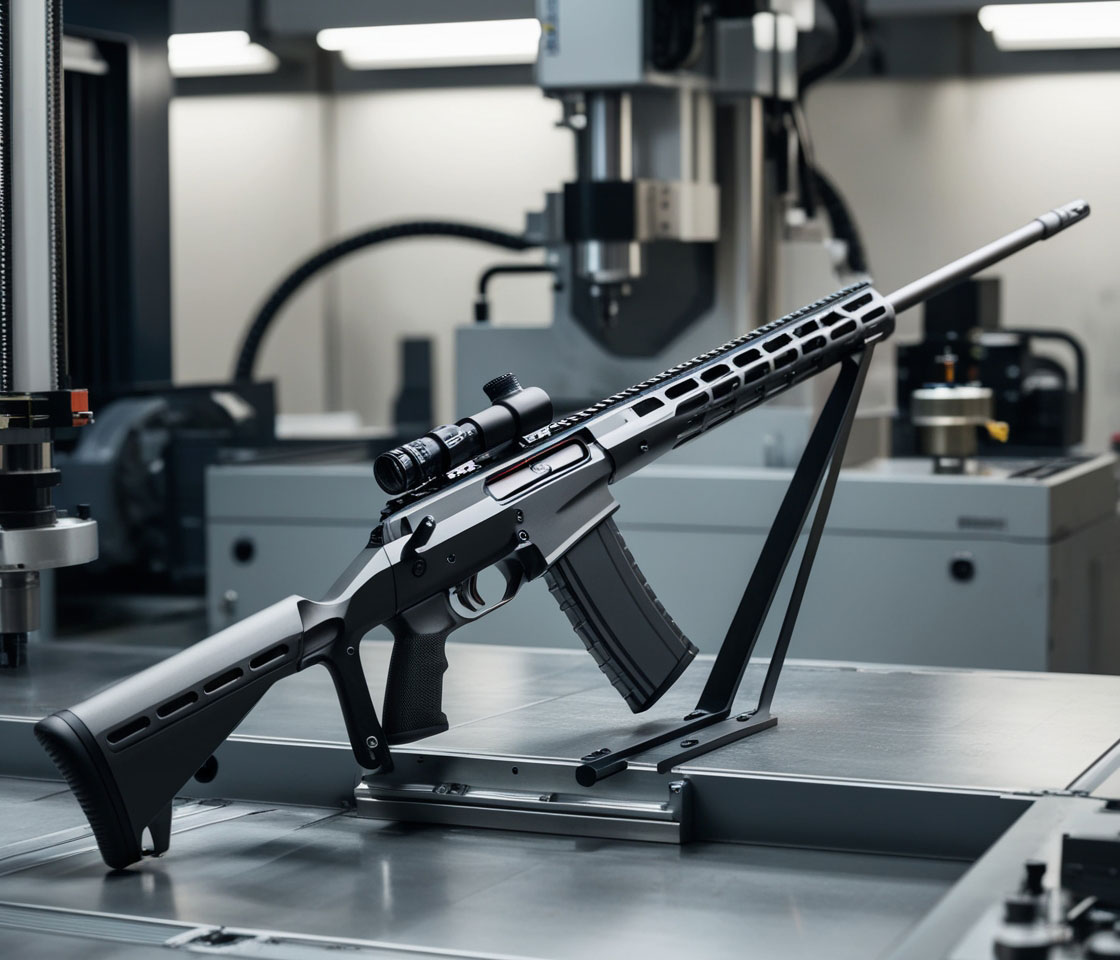
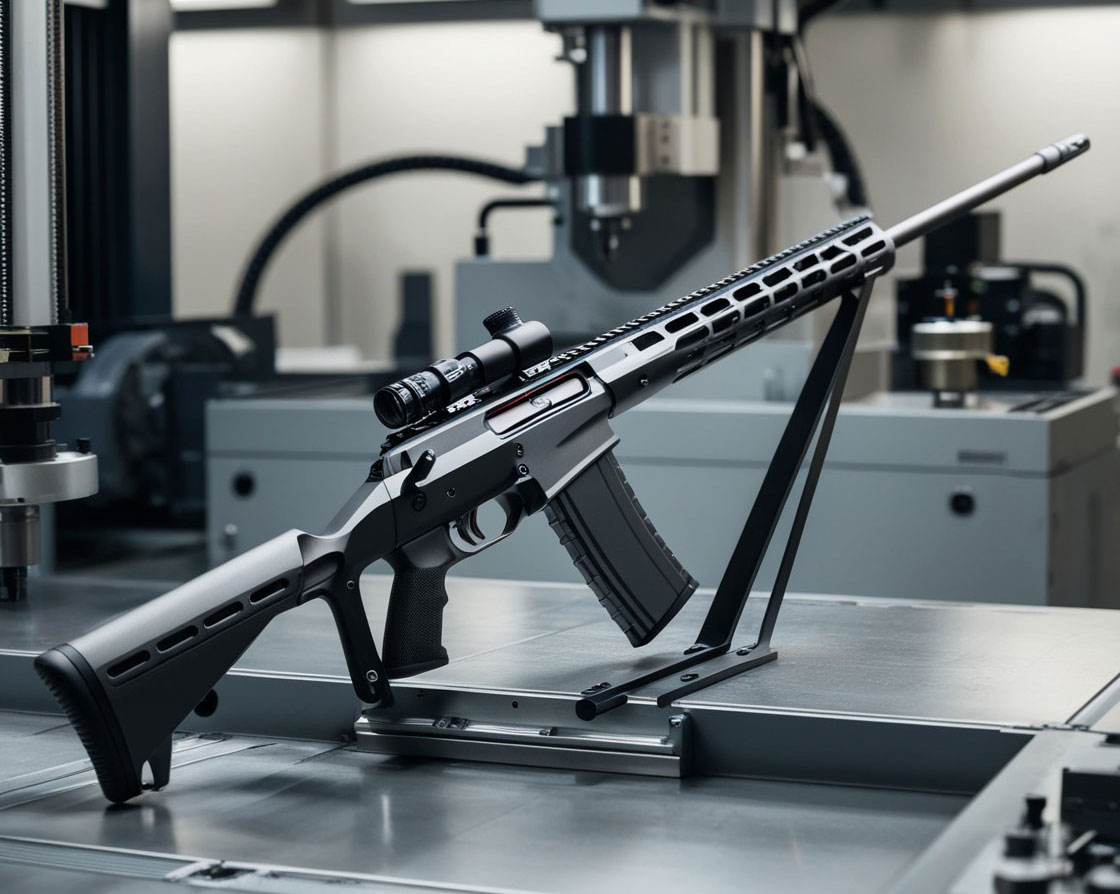
cambios en AboutSection

diff --git a/src/pages/Home/components/AboutSection/AboutSection.jsx b/src/pages/Home/components/AboutSection/AboutSection.jsx
@@ -1,22 +1,24 @@
+import { useContext, useEffect, useRef, useState } from 'react';
+import { PreloaderContext } from "../../../../context/PreloaderContext";
 import { AboutInformation } from './AboutInformation'
 import { AboutItem } from './AboutItem'
 
 
 const features = [
   { 
-    title: '01 Diseño',
+    title: 'Diseño',
     text: 'Nuestro enfoque combina ingeniería, experiencia, tecnología de fabricación y pruebas en campo para crear fusiles que destacan en todos los aspectos.'
   },
   {
-    title: '02 Versatilidad',
+    title: 'Versatilidad',
     text: 'Adaptamos nuestros fusiles a tus necesidades, permitiendo configuraciones personalizadas dentro de su propósito principal.'
   },
   {
-    title: '03 Calidad',
+    title: 'Calidad',
     text: 'Utilizamos materiales de alto rendimiento y tecnología CNC de última generación para garantizar la máxima calidad en cada pieza.'
   },
   {
-    title: '04 Precisión',
+    title: 'Precisión',
     text: 'La precisión está en nuestro ADN. Consideramos cada detalle que la influye desde el diseño hasta la fabricación.'
   },
 ];
@@ -35,23 +37,78 @@ const featurePairs = splitFeatures(features, 2);
 
 export const AboutSection = () => {
 
+  const [tabletVersion, setTabletVersion] = useState(window.innerWidth >= 665 &&  window.innerWidth < 1024);
+
+  const { completeBar, startAnimation } = useContext(PreloaderContext);
+
+  const refs = useRef({}); 
+
+  const setRef = (node, id) => {
+    if(node) {
+      refs.current[id] = node;
+    }
+  };
+
+  const updateViewVersion = () => {
+    setTabletVersion(window.innerWidth >= 665 &&  window.innerWidth < 1024);
+  };
+
+  const calculateHeightDifference = () => {
+    if (!refs.current[1] || !refs.current[3]) {
+      console.log(refs.current[1]);
+      console.log(refs.current[3]);
+      console.log("Las referencias no están listas.");
+      return;
+    } 
+    console.log("Calculando la diferencia de altura...");
+
+    const heightDifference =
+    refs.current[1].offsetHeight - refs.current[3].offsetHeight;
+
+    console.log('la diferencia es:', heightDifference);
+
+    if(heightDifference !== 0 && refs.current[3]) {
+      refs.current[3].style.marginTop = `${-Math.abs(heightDifference)}px`; 
+    }
+
+    if(refs.current[4]) {
+      refs.current[4].style.height = `${refs.current[1].offsetHeight}px`
+    }
+  };
+
+  useEffect(() => {
+    window.addEventListener('resize', updateViewVersion);
+    console.log(tabletVersion)
+    setTimeout(() => {
+      if(tabletVersion) {
+        calculateHeightDifference();
+      } else {
+        refs.current[3].style.marginTop = '0px';
+      }
+
+    }, 200);
+
+    return () => {
+      window.removeEventListener('resize', updateViewVersion);
+    }
+  }, [completeBar, tabletVersion]);
+  
+
 return (
   <section className="about-s section container">
     <div className="about-s__flex">
       <AboutInformation />
+
       <div className="about-s__items">
         {
-          featurePairs.map((pair, index) => (
-            <div className={`about-s__items-col about-s__items-col--${index}`} key={index}>
-              {pair.map((feature, subIndex) => (
-                <AboutItem 
-                  key={`${subIndex}-${index}`} 
-                  title={feature.title} 
-                  text={feature.text} 
-                  index={index}
-                />
-              ))}
-            </div>
+          features.map((feature, index) => (
+            <AboutItem 
+              key={`${feature.title}-${index}`} 
+              title={feature.title} 
+              text={feature.text} 
+              index={index}
+              setRef = { setRef }
+            />
           ))
         }
       </div>

diff --git a/src/styles/pages/home/components/_aboutSection.scss b/src/styles/pages/home/components/_aboutSection.scss
@@ -155,49 +155,88 @@
     }
 
     &__items {
-        @include m.grid(1, 3rem);
 
-        @include m.desktop { 
-            @include m.grid(2, 4.2rem);
+        @include m.grid(1, 4rem);
+
+        @include m.telefono-2 {
+            display: grid;
+            grid-template-columns: repeat(2, 1fr);
+            column-gap: 4rem;
+            row-gap: 5rem;
+            
+            & > * {
+                align-self: start;
+            }
         }
-    }
-
-    &__items-col {
-        display: grid;
-        gap: 3rem;
-        @include m.desktop { 
-            gap: 3rem;
-        }
-
-    }
-
-
-    &__items-content { 
         
+        @include m.desktop {
+            @include m.grid(4, 0);
+            column-gap: 2rem;
+            row-gap: 3rem;
+        }
+    }
 
+    &__item-content { 
+
+        position: relative;
         @include m.flex(column, 1rem);
         justify-content: start;
-        padding: 2rem;
-        min-height: 20rem;
+        padding: 6rem 2rem 2rem 2rem;
         border-radius: 0.5rem;
+        border: 1px solid v.$primary;
         background-color: transparentize(v.$primary, 0.87);
+        
 
         @include m.telefono {
             gap: 1.5rem;
             border-radius: 1rem;
         }
 
+        @include m.telefono-2 {
+            max-width: 30rem;
+
+            &:first-child, 
+            &:last-child {
+                min-height: 30rem;
+            }
+
+            &:nth-child(2), 
+            &:nth-child(3) {
+                min-height: 42rem
+            }
+
+            &:nth-child(1),
+            &:nth-child(3) {
+                justify-self: end; 
+            }
+        }
+
         @include m.tablet {
-            padding: 2.5rem 3rem;
             @include m.flex(column, 1rem);
+        }
+
+        @include m.desktop {
+            &:nth-child(n) {
+                min-height: 30rem;
+            }
+
+            &:nth-child(2n) {
+                min-height: 42rem
+            }
+
+            &:nth-child(1),
+            &:nth-child(3) {
+                justify-self: initial; 
+            }
+
         }
     }
 
-    &__items-title {
+    &__item-title {
         text-transform: uppercase;
         color: v.$primary;
         font-family: v.$primaryFont;
-        font-size: 2.8rem;
+        font-size: 3.5rem;
         font-weight: 700;
 
         @include m.tablet { 
@@ -205,15 +244,22 @@
         }
     }
 
-    &__items-text {
+    &__item-number {
+        position: absolute;
+        top: -10%;
+        left: -0.5rem;
+        font-size: 7rem;
+        font-family: v.$primaryFont;
+        color: v.$primary;
+        font-weight: 900;
+        line-height: 1;
+    }
+
+    &__item-text {
         font-size: 1.8rem;
 
         @include m.telefono { 
             font-size: 2rem;
         }
-
-        /* @include m.tablet { 
-            font-size: 2.2rem;
-        } */
     }
 }

diff --git a/src/pages/Home/components/AboutSection/AboutItem.jsx b/src/pages/Home/components/AboutSection/AboutItem.jsx
@@ -1,27 +1,27 @@
-import { useContext, useEffect, useRef } from "react";
+import { useContext, useEffect, useRef, useState } from "react";
 import { aboutItemAnimation } from "../../../../animations";
-import { PreloaderContext } from "../../../../context/PreloaderContext";
 
-import gsap from "gsap";
-import { ScrollTrigger } from "gsap/ScrollTrigger";
 
-gsap.registerPlugin(ScrollTrigger);
 
-export const AboutItem = ({ title, text, index }) => {
+export const AboutItem = ({ title, text, index, setRef }) => {
 
-  const { startAnimation } = useContext(PreloaderContext);
 
-  const itemRef = useRef(null);
 
-  useEffect(() => {
+
+  /* useEffect(() => {
     if(!startAnimation) return;
-    aboutItemAnimation(itemRef.current, index);
-  }, [startAnimation]);
+    aboutItemAnimation(refCurrent.current, index);
+  }, [startAnimation]); */
+
   
+
+  
+
   return (
-    <div className="about-s__items-content" ref={itemRef}>
-      <span className="about-s__items-title">{title}</span>
-      <p className="about-s__items-text">{text}</p>
+    <div ref={ (node) => setRef(node, index + 1) } className="about-s__item-content">
+      <span className="about-s__item-number">{`0${index + 1}`}</span> 
+      <span className="about-s__item-title">{title}</span>
+      <p className="about-s__item-text">{text}</p>
     </div>
   );
 };

diff --git a/src/pages/Home/components/FeaturedProduct/FeaturedProduct.jsx b/src/pages/Home/components/FeaturedProduct/FeaturedProduct.jsx
@@ -15,7 +15,6 @@ export const FeaturedProduct = () => {
   const infoRef = useRef(null);
 
   const setRef = (node, id) => {
-    console.log(node);
     if(node) {
       refs.current[id] = node; 
     }
@@ -44,7 +43,6 @@ export const FeaturedProduct = () => {
 
   const handleHotspot = (id) => {
     const hotspot =  refs.current[id];
-    console.log('el hots anterior fue:', prevHotspot);
     if(prevHotspot) { 
       const { btnHotspot, tooltip } = setElements(prevHotspot);
       closeHotspot(btnHotspot, tooltip);
@@ -59,7 +57,6 @@ export const FeaturedProduct = () => {
   }
   
   useEffect(() => {
-    console.log('Se ejecuto la linea')
     featuredProductAnimation(featuredProductRef.current, titleProductRef.current, imageProductRef.current, infoRef.current);
   }, [startAnimation])
   

diff --git a/src/animations/homePages.js b/src/animations/homePages.js
@@ -223,9 +223,6 @@ export const featuredProductAnimation = (featuredProduct, title, image, info) =>
 
   gsap.set(title, { yPercent: 50, opacity: 0 });
   gsap.set(image, { yPercent: 25, opacity: 0, scale: 0 });
-  
-  
-  console.log(title, image, info); 
 
   const tlFeaturedProduct = gsap.timeline({
     scrollTrigger: {
@@ -264,8 +261,6 @@ export const featuredProductAnimation = (featuredProduct, title, image, info) =>
   gsap.utils.toArray('.featured-product__info > *').forEach((element) => {
 
     gsap.set(element, { y: "25%", opacity: 0 });
-
-    console.log(element)
 
     const tlInfo = gsap.timeline({
       scrollTrigger: {

diff --git a/src/styles/components/Footer/_footer.scss b/src/styles/components/Footer/_footer.scss
@@ -83,13 +83,12 @@
   /* === Column Second === */
 
   &__column-second {
+    display: none;
     order: 3;
-    @include m.flex(column, 1.5rem);
-    align-items: center;
-    border-bottom: 1px solid v.$gray-light;
     padding: 2rem;
 
     @include m.desktop {
+      @include m.flex(column, 1.5rem);
       align-items: start;
       border-bottom: none;
       order: 2;

diff --git a/src/styles/base/_globales.scss b/src/styles/base/_globales.scss
@@ -21,7 +21,7 @@ body {
     font-family: v.$secondaryFont; //para parrafos
     font-size: 1.6rem;
 
-    @include m.tablet { //768px
+    @include m.tablet { 
         font-size: 1.8rem;
     }
 }

diff --git a/src/styles/base/_variables.scss b/src/styles/base/_variables.scss
@@ -22,7 +22,7 @@ $gray-light: #9F9F9F;
 
 //Media Queries
 $telefono: 480px;  
-$telefono-2: 665px; 
+$telefono-2: 665px;  
 $tablet: 768px; 
 $tablet-2: 992px; 
 $desktop: 1024px; 
